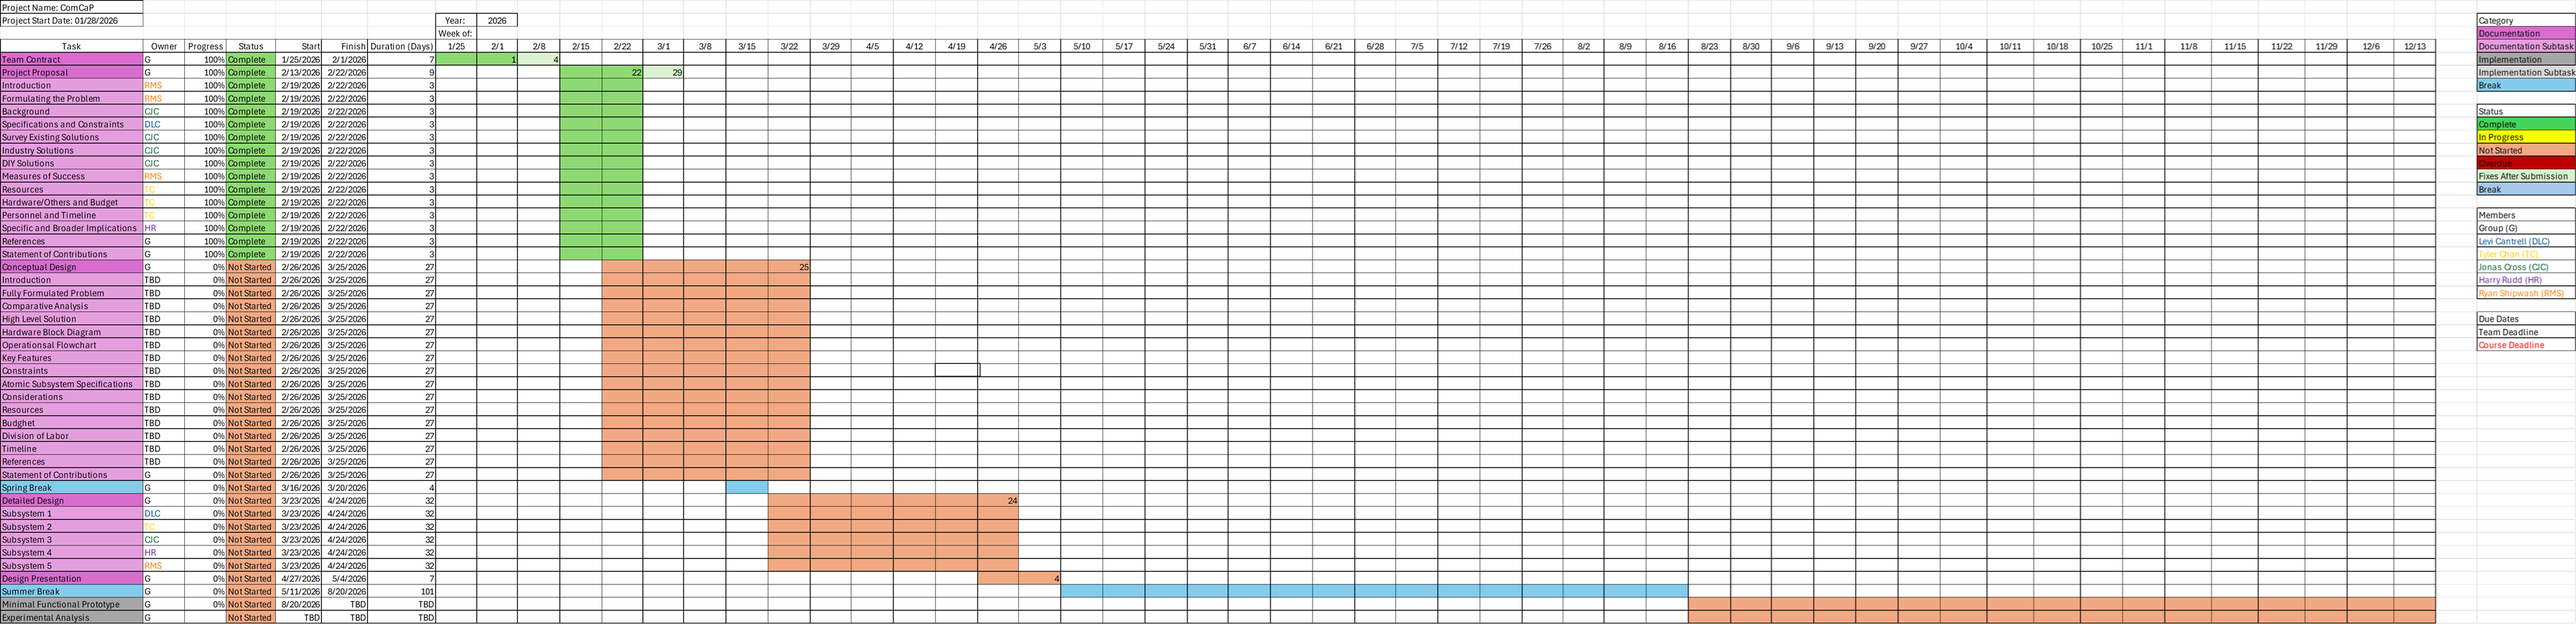
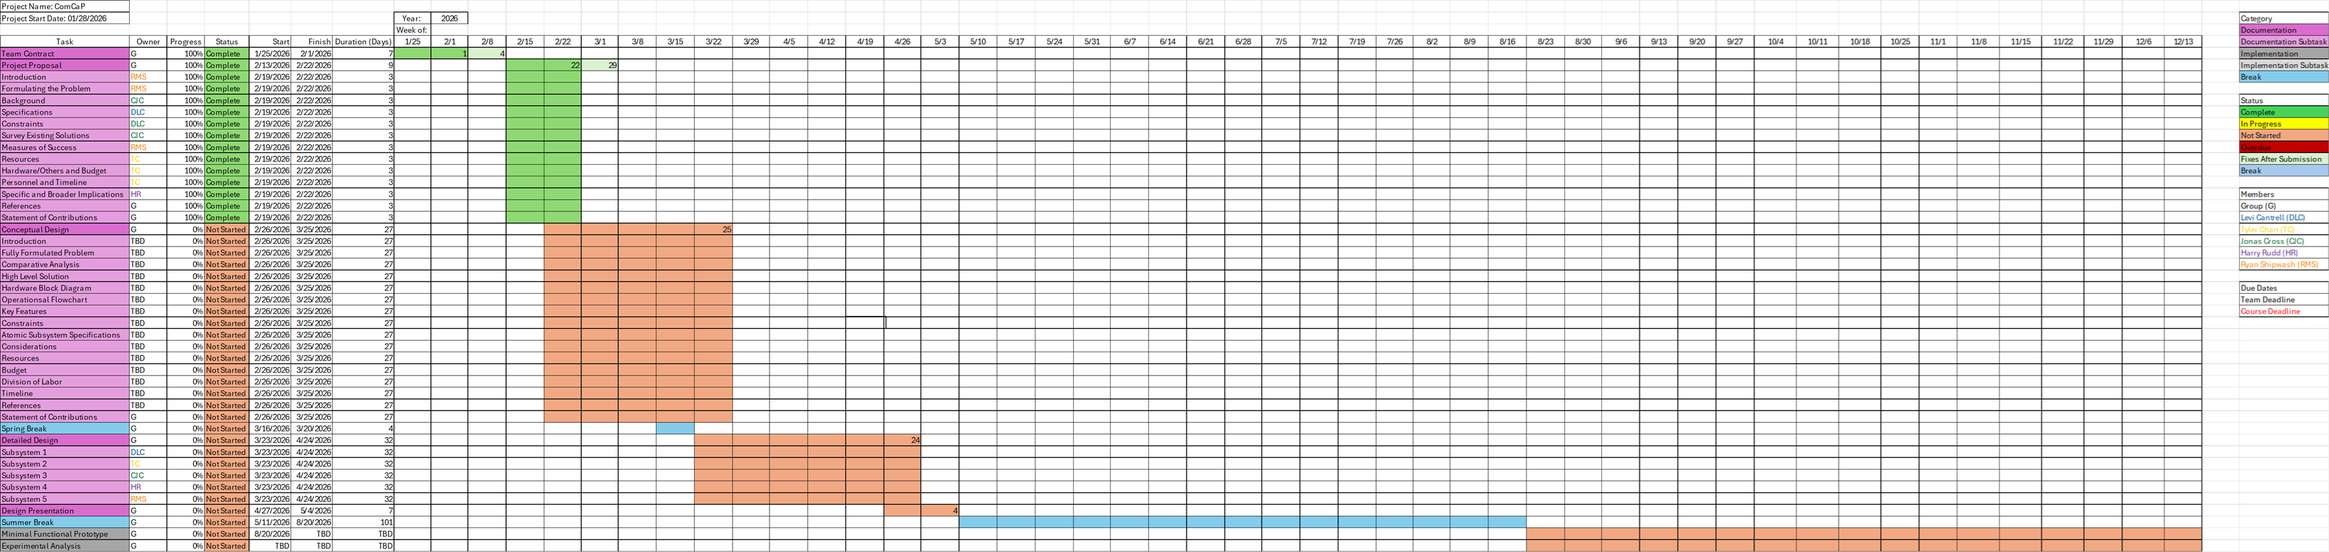
Updated gantt chart

Changed region(s): [[0.0, 0.0, 1.0, 1.0]]

diff --git a/Reports/Project_Proposal.md b/Reports/Project_Proposal.md
@@ -101,12 +101,12 @@ For the tertiary focus, the back channel communication path will be incorporated
 
 ## Resources
 
-This project will include primarily hardware components to implement the design: a Bias Tee circuit, the Si5345B Jitter-Cleaning Clock Synthesizer, various SMD components to support those circuits, the PCB, a power supply, and cables for the I/O. Additionally, LTSpice will be used primarily for simulation files to deliver to the customer.
+This project will include primarily hardware components to implement the design: the Bias Tee circuits (Rx and Tx), the Si5345B Jitter-Cleaning Clock Synthesizer, various SMD components to support those circuits, the PCB, a power supply, and cables for the I/O. Additionally, LTSpice will be used primarily for simulation files to deliver to the customer.
 
 #### Hardware Components
 
-1. Capacitors an Inductors: Specific Capacitors and Inductors will need to be selected to create the bias tee with certain characteristics to operate at ideal functionality.
-2. Jitter Cleaning Clock Synthesizer: Si5345B. This chip is used for generating a clock that will be passed over the cable with the power signal. This chip was selected for its ability to maintain a clean signal and reduce jitter [2].
+1. Bias Tee Circuitry: Specific Capacitors, Inductors, and Resistors will need to be selected to create the bias tee with certain characteristics to operate at ideal functionality.
+2. Jitter Cleaning Clock Synthesizer: Si5345B. This chip is used for generating a reference clock. This chip was selected by the customer for its ability to maintain a clean signal and reduce jitter [2].
 3. PCB: Two boards will be designed and laid out. One board shall be in charge of producing the clock signal and biasing it to be fed over a cable to the receiver. The other board shall function as the test board to check the jitter measurements and ensure that the design falls within the specifications outlined by the customer.
 4. Power Supply: Provides power to the board which will then be stepped down to power the the various components and then sent over the cable from the transmitter to the receiver. Power supply will be provided by the customer.
 5. Cables: Cables will be procured or fabricated to carry the power and signal from the transmitter to the receiver. Present options for the cable are Ethernet or Coaxial cables.
@@ -143,7 +143,7 @@ Estimate of the cost for major materials needed:
 
 **Tyler Chan**  
 
-- *Current Skills:* PCB Design, Component Sourcing, LTspice, Python, Matlab, 
+- *Current Skills:* PCB Design, Component Sourcing, LTspice, Python, Matlab, VHDL, SystemVerilog
 - *Skills to Learn:* Circuit Design Knowledge, Altium
 
 **Jonas Cross**  
@@ -167,11 +167,11 @@ During the conceptual design phase, group members will determine further what to
 
 #### Supervisor
 
-- **Professor Van Neste:** He was chosen because he has expertise in some signal processing and hardware aspects of the project.
+- **Dr. Charles Van Neste:** He was chosen because he has expertise in some signal processing and hardware aspects of the project.
 
 #### Instructor
 
-- **Professor Storm:** He will provide guidance as needed when the team goes to him for help. He will also approve of various aspects of the project as they progress.
+- **Dr. Christopher Storm Johnson:** He will provide guidance as needed when the team goes to him for help. He will also approve of various aspects of the project as they progress.
 
 #### Technical Expert Consultant
 
